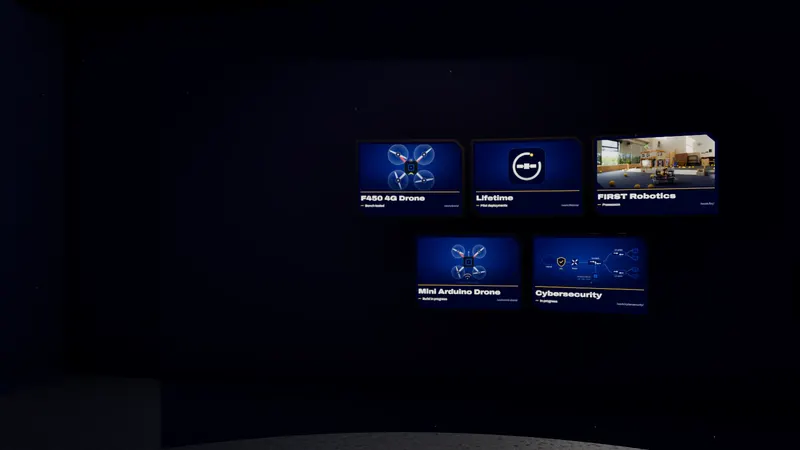
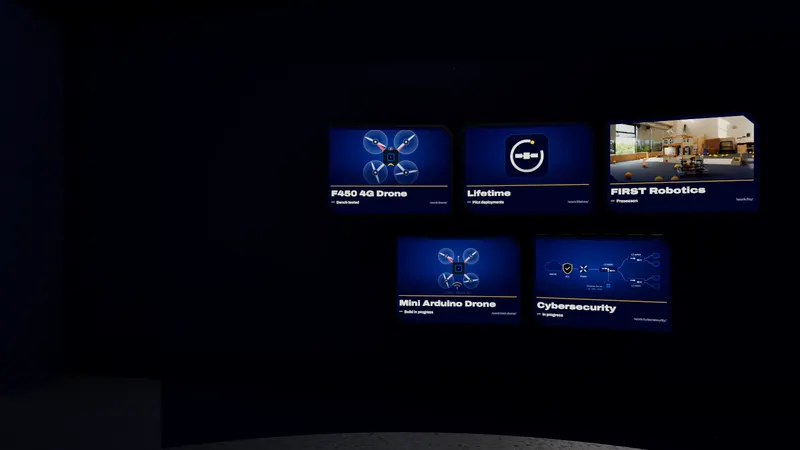
Studio: the wall of projects closer (panels about 18% larger)
The panels are as large as fits beside the text; the wall's card takes a third of the window at most (data-narrow),
so the wall has the same room at 1280, 1440 and 1920. A figure in the proof counts no longer breaks (9.311.000 ₫).

Changed region(s): [[0.4062, 0.2489, 0.9688, 0.4978], [0.4688, 0.5289, 0.8438, 0.7467]]

diff --git a/src/lib/studio/stations.ts b/src/lib/studio/stations.ts
@@ -457,7 +457,7 @@ export async function buildStations(ctx: StageContext, parent: Group, content: R
 	/* The wall: one panel per project, three above and two below, on an arc */
 	/* ================================================================== */
 	// The arc's centre is where the camera stands for this scene (scenes.ts), so every panel is the same distance away.
-	const arc = { x: 3.6, z: 1.0, r: 3.9, step: 0.196, y: 1.45, row: 0.62, scale: 0.58 };
+	const arc = { x: 3.6, z: 1.0, r: 3.9, step: 0.231, y: 1.45, row: 0.73, scale: 0.685 };
 	const wallBack = new Mesh(
 		new CylinderGeometry(arc.r + 0.2, arc.r + 0.2, 2.6, 48, 1, true, Math.PI / 2 - 0.6, 1.2),
 		new MeshStandardMaterial({ color: 0x0e1834, roughness: 0.9, side: DoubleSide }),
